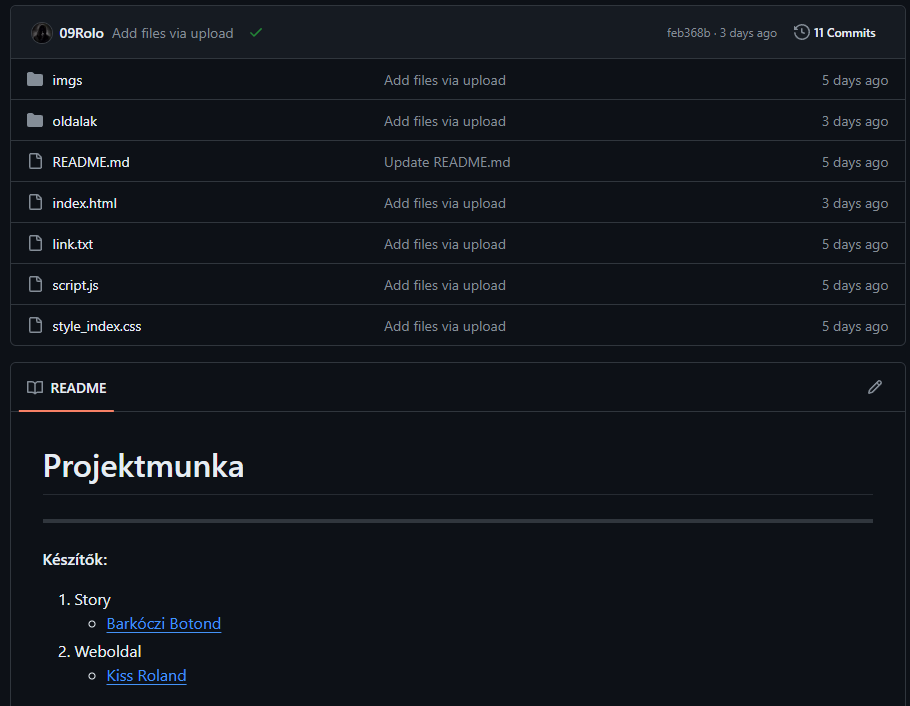
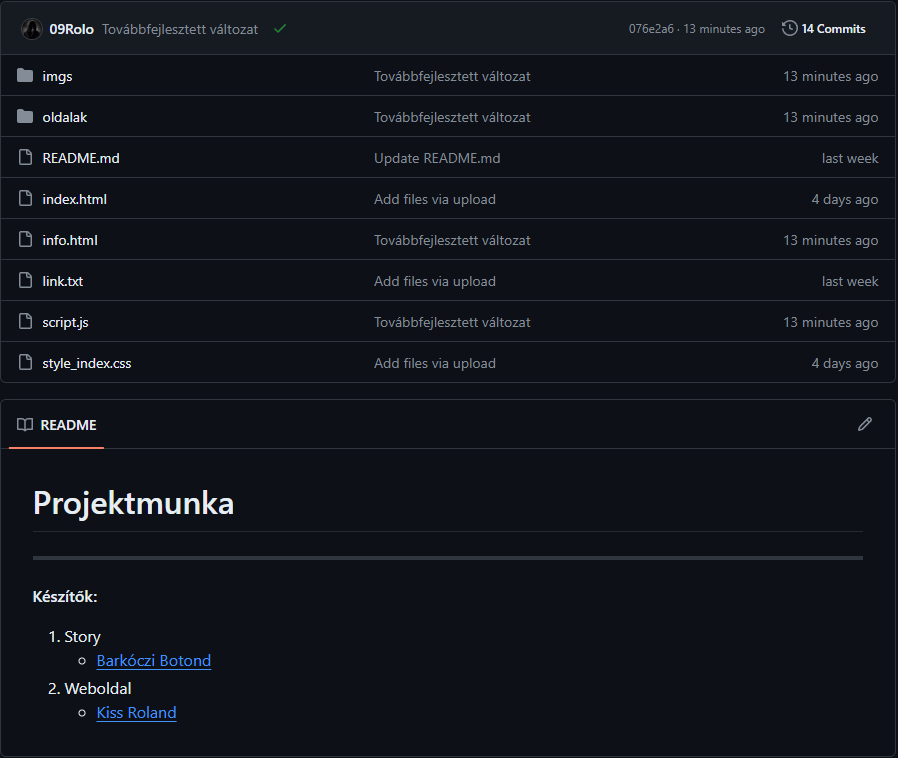
Add files via upload

diff --git a/oldalak/style.css b/oldalak/style.css
@@ -618,6 +618,22 @@ hr {
 
 
 @media screen and (max-width: 799px) {
+    .bg > * {
+        display: none;
+    }
+
+
+    .bg::before {
+        display: inline;
+        content: "A teljes élményhez gépen játsz a játékkal!";
+        background-color: rgba(0, 0, 0, 0.5);
+        color: white;
+        font-size: 50px;
+        padding: 10px;
+    }
+    
+    /*
+
     body {
         background-color: black;
     }
@@ -684,6 +700,7 @@ hr {
     .buttons > * {
         margin-bottom: 10px;
     }
+    */
 }
 
 
